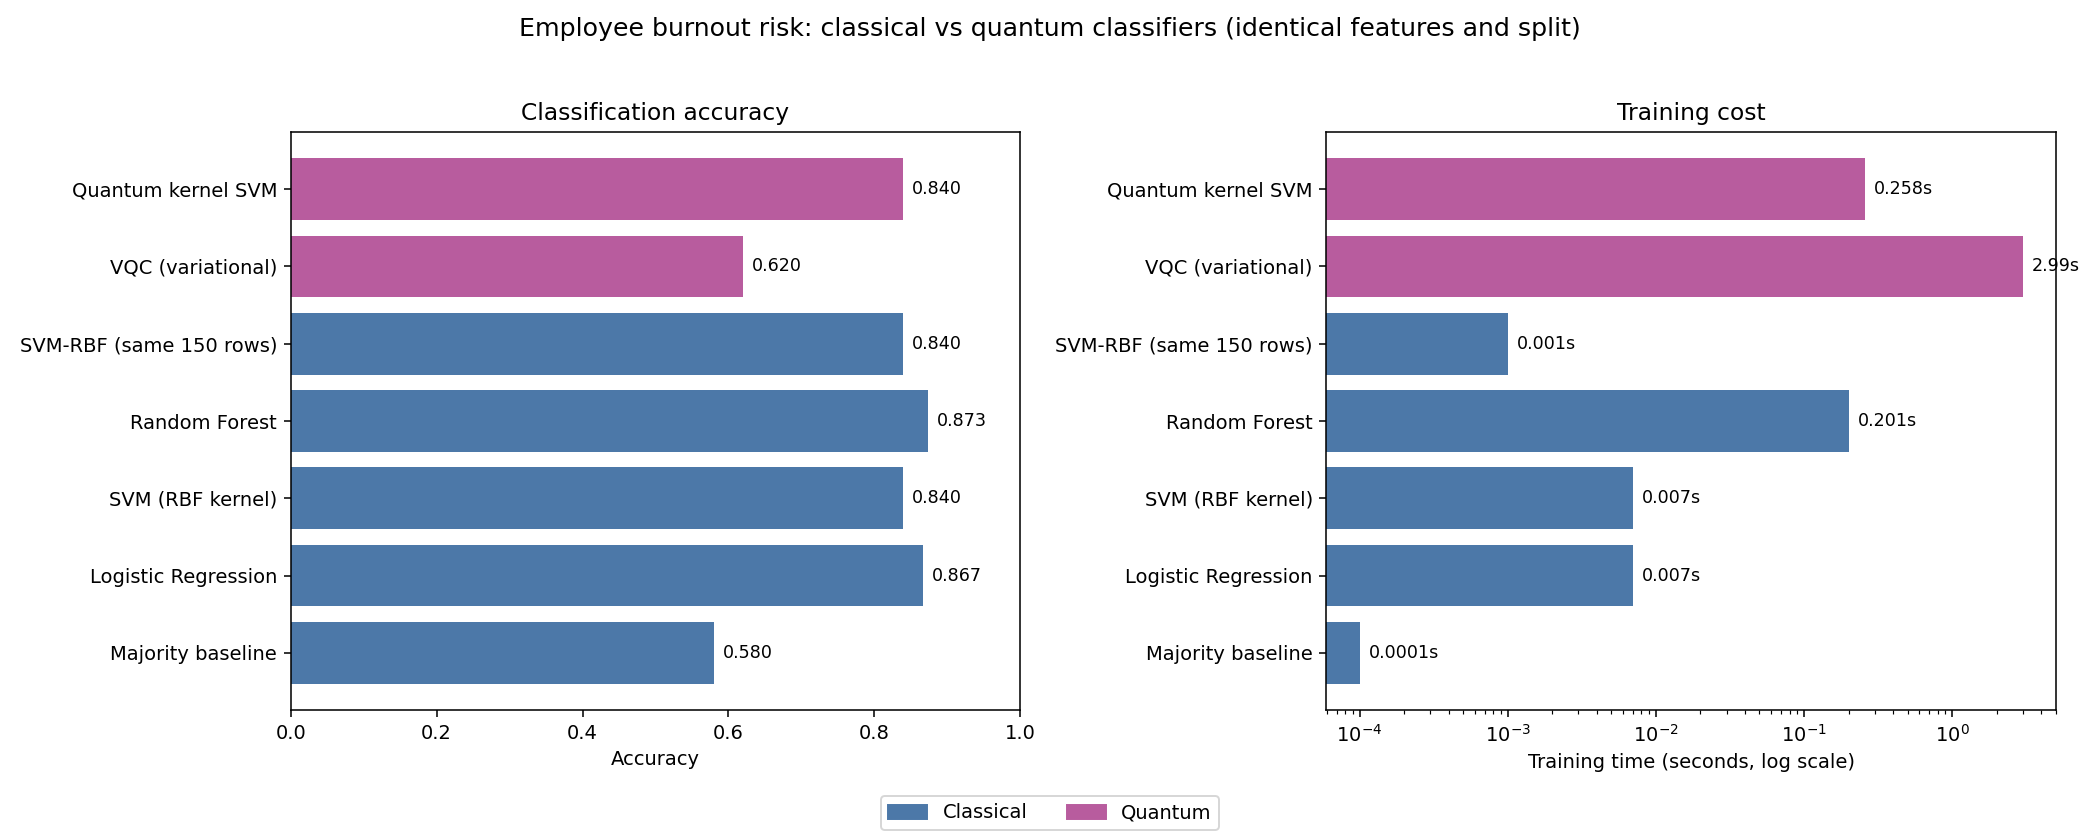
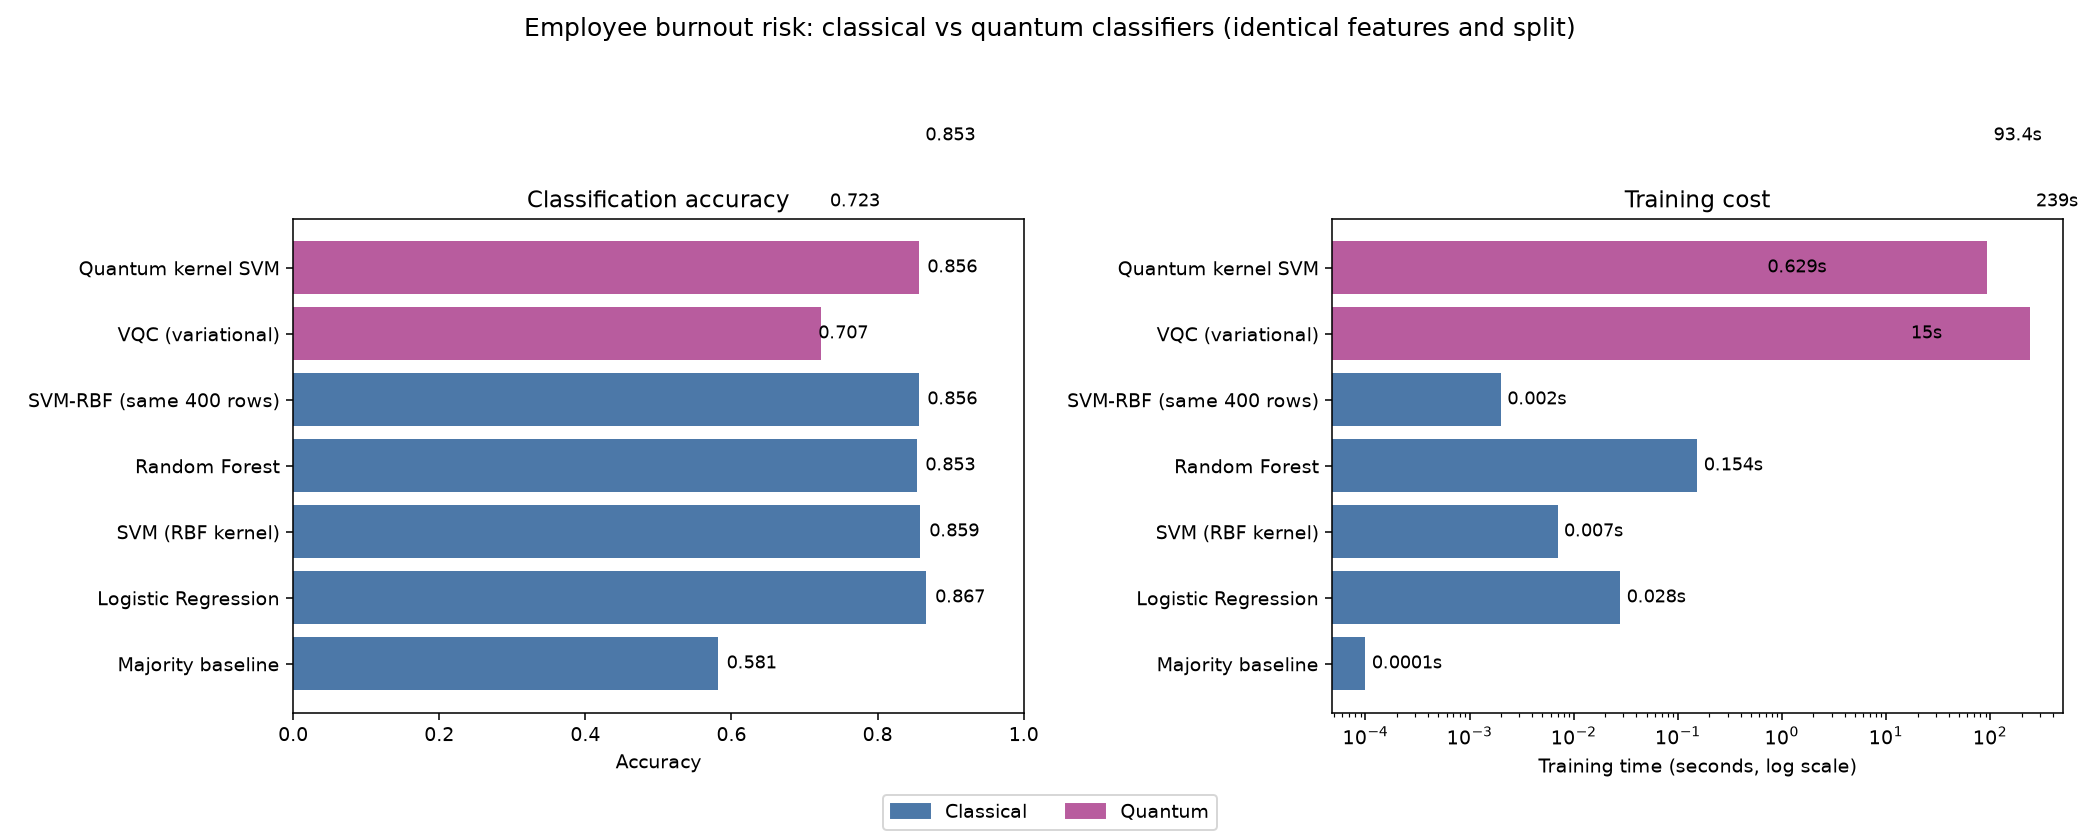
fix(quantum): keep pandas off PyArrow strings; checkpoint each stage
The benchmark died with a SIGSEGV part-way through every run, taking all
completed results with it. The cause was not the quantum simulators: pandas
3.0 defaults string columns to PyArrow storage, and on Python 3.14 /
Apple Silicon PyArrow's bundled mimalloc faults while converting the list of
result dicts into a DataFrame. Selecting the Python string backend avoids it.

A segfault cannot be caught, so the final save never ran. Results are now
written after each stage, bounding the loss of a crash to one stage.

Re-running with both fixes produces the full nine-model table: four classical
baselines, the matched SVM-RBF control, and VQC plus quantum kernel SVM in
both PennyLane and Qiskit, over 400 training rows in 528.3 s. The committed
results previously held a stale seven-row PennyLane-only run that contradicted
the figures reported in the paper.

diff --git a/quantum/benchmark.py b/quantum/benchmark.py
@@ -53,6 +53,40 @@ if __package__ in (None, ""):  # pragma: no cover - script-mode only
 import numpy as np
 import pandas as pd
 
+
+def _disable_arrow_strings() -> None:
+    """Keep pandas off PyArrow-backed string arrays.
+
+    THE CRASH THIS PREVENTS
+        pandas 3.0 makes PyArrow the default storage for string columns. On
+        Python 3.14 / Apple Silicon, PyArrow's bundled mimalloc allocator
+        segfaults inside `arrow::py::NumPyConverter::Convert` when a DataFrame
+        is built from Python objects — which is exactly what happens when the
+        benchmark turns its list of result dicts into a table.
+
+        The failure is a SIGSEGV, not an exception, so it cannot be caught:
+        the process dies and every result computed up to that point is lost.
+        It also looks nothing like its cause. The traceback points at whatever
+        stage happened to be running, which made it read as a quantum
+        simulator bug for several runs.
+
+        Selecting the Python string backend avoids PyArrow entirely. The only
+        cost is slightly slower string handling on tables of a few dozen rows,
+        which is irrelevant here.
+
+        Both option names are attempted because the spelling changed between
+        pandas 2 and 3, and a missing option must not be fatal.
+    """
+    for option, value in (("mode.string_storage", "python"),
+                          ("future.infer_string", False)):
+        try:
+            pd.set_option(option, value)
+        except Exception:          # option absent on this pandas version
+            pass
+
+
+_disable_arrow_strings()
+
 from quantum import REPO_ROOT
 from quantum.circuits import CircuitSpec
 from quantum.classical_baseline import ModelResult, run_classical_baselines
@@ -119,6 +153,45 @@ def run_benchmark(
 
     results: List[ModelResult] = []
 
+    def checkpoint(stage: str) -> None:
+        """Write whatever has completed so far to disk.
+
+        WHY THIS EXISTS
+            The quantum simulators are native extensions. On some interpreter
+            and platform combinations they abort the process with a
+            segmentation fault rather than raising — and a segfault cannot be
+            caught by `except`, so neither the final save nor the emergency
+            dump ever runs. Every result computed before the crash was being
+            lost, including the classical baselines that had already finished
+            in milliseconds.
+
+            Checkpointing after each stage means a crash costs only the stage
+            that crashed. The partial CSV is still a publishable artifact for
+            the models that did complete.
+        """
+        if not results:
+            return
+        try:
+            OUTPUT_DIR.mkdir(parents=True, exist_ok=True)
+            partial = {
+                "data": data.describe(),
+                "circuit": spec.describe(),
+                "environment": environment(),
+                "kernel_max_train": kernel_max_train,
+                "checkpoint_after": stage,
+                "complete": False,
+                "total_seconds": round(time.perf_counter() - started, 2),
+                "results": [r.row() for r in results],
+            }
+            pd.DataFrame(partial["results"]).to_csv(
+                OUTPUT_DIR / "benchmark_results.csv", index=False)
+            (OUTPUT_DIR / "benchmark_summary.json").write_text(
+                json.dumps(partial, indent=2, default=str))
+            logger.info("  checkpoint saved after '%s' (%d model(s))",
+                        stage, len(results))
+        except Exception as exc:          # never let saving break the run
+            logger.warning("  checkpoint failed after '%s': %s", stage, exc)
+
     logger.info("--- classical baselines ---")
     results.extend(run_classical_baselines(data))
 
@@ -127,6 +200,7 @@ def run_benchmark(
     capped = _classical_on_capped_subset(data, kernel_max_train)
     if capped:
         results.append(capped)
+    checkpoint("classical")
 
     if not skip_quantum:
         logger.info("--- PennyLane ---")
@@ -141,6 +215,9 @@ def run_benchmark(
             )
         except ImportError as exc:
             logger.error("PennyLane unavailable: %s", exc)
+        except Exception as exc:
+            logger.error("PennyLane stage failed: %s", exc)
+        checkpoint("pennylane")
 
         if not skip_qiskit:
             logger.info("--- Qiskit ---")
@@ -155,6 +232,9 @@ def run_benchmark(
                 )
             except ImportError as exc:
                 logger.error("Qiskit unavailable: %s", exc)
+            except Exception as exc:
+                logger.error("Qiskit stage failed: %s", exc)
+            checkpoint("qiskit")
 
     elapsed = time.perf_counter() - started
 
